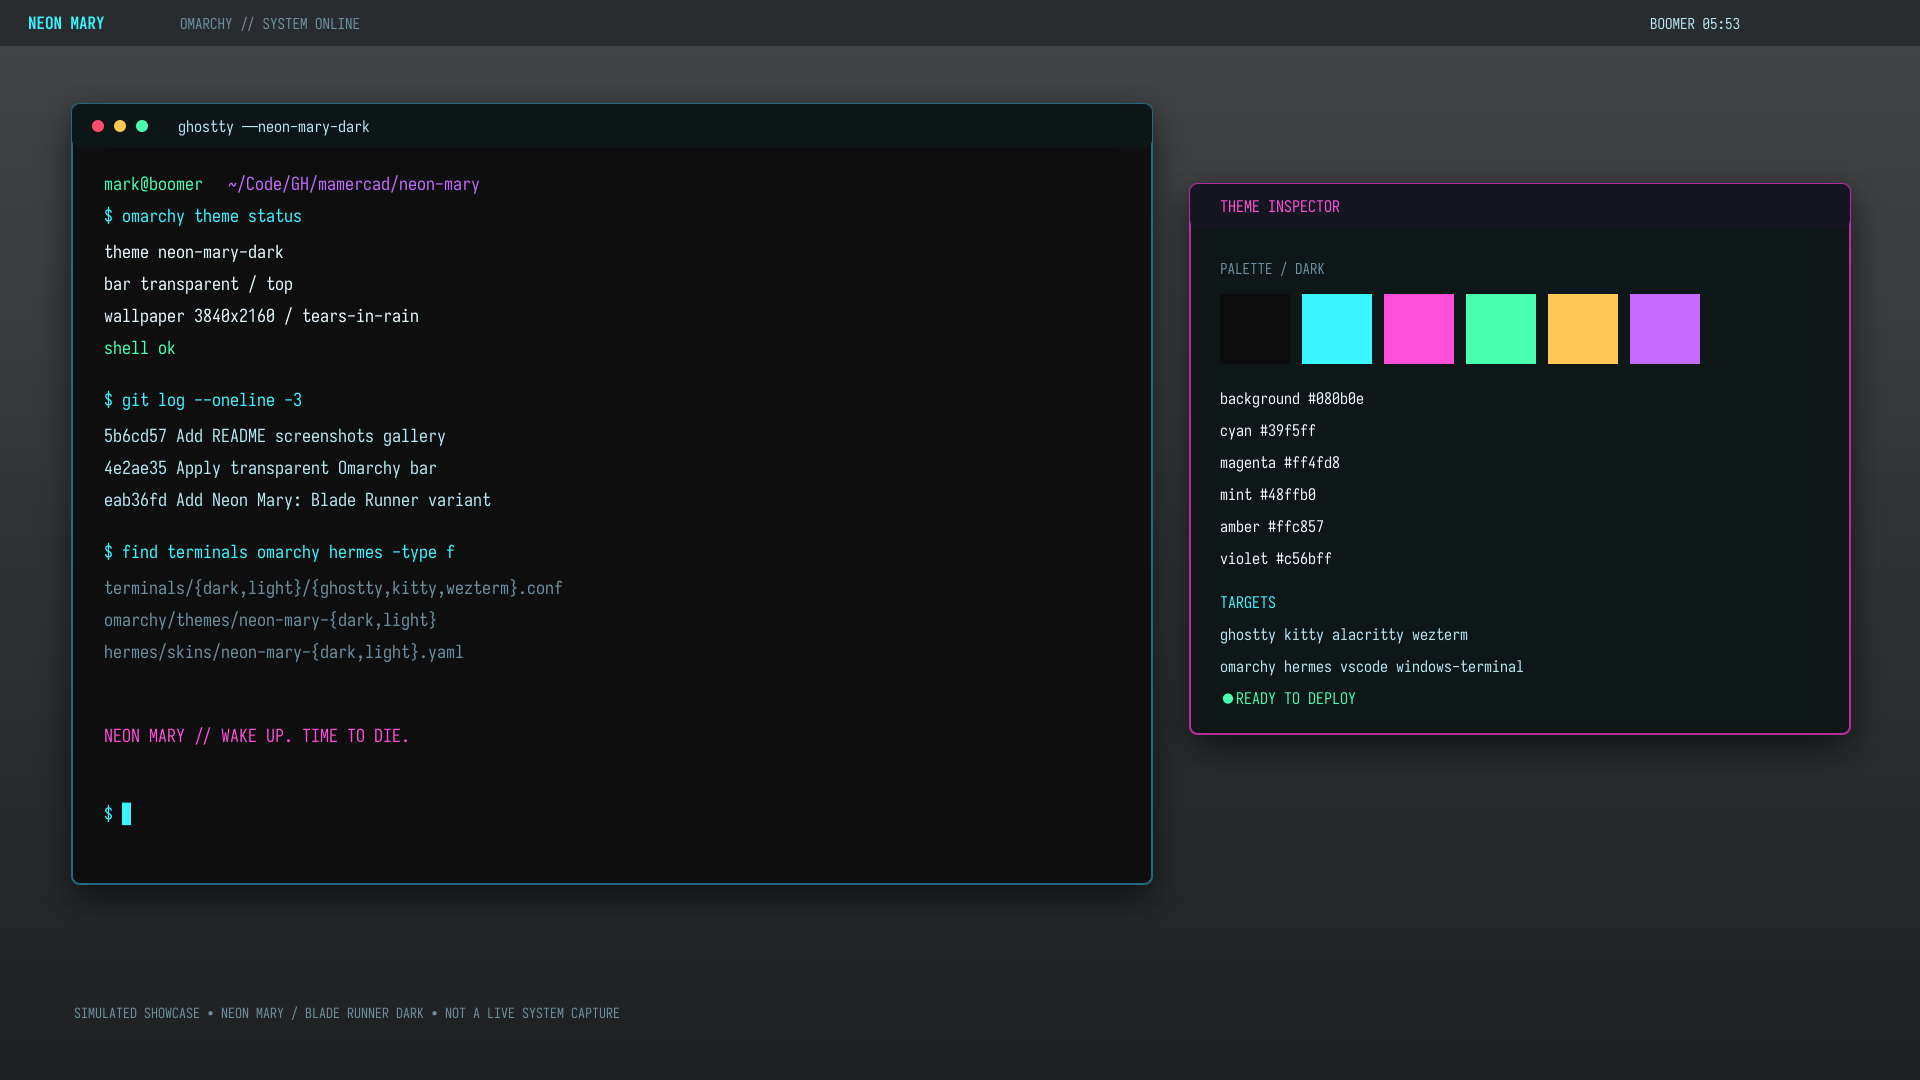
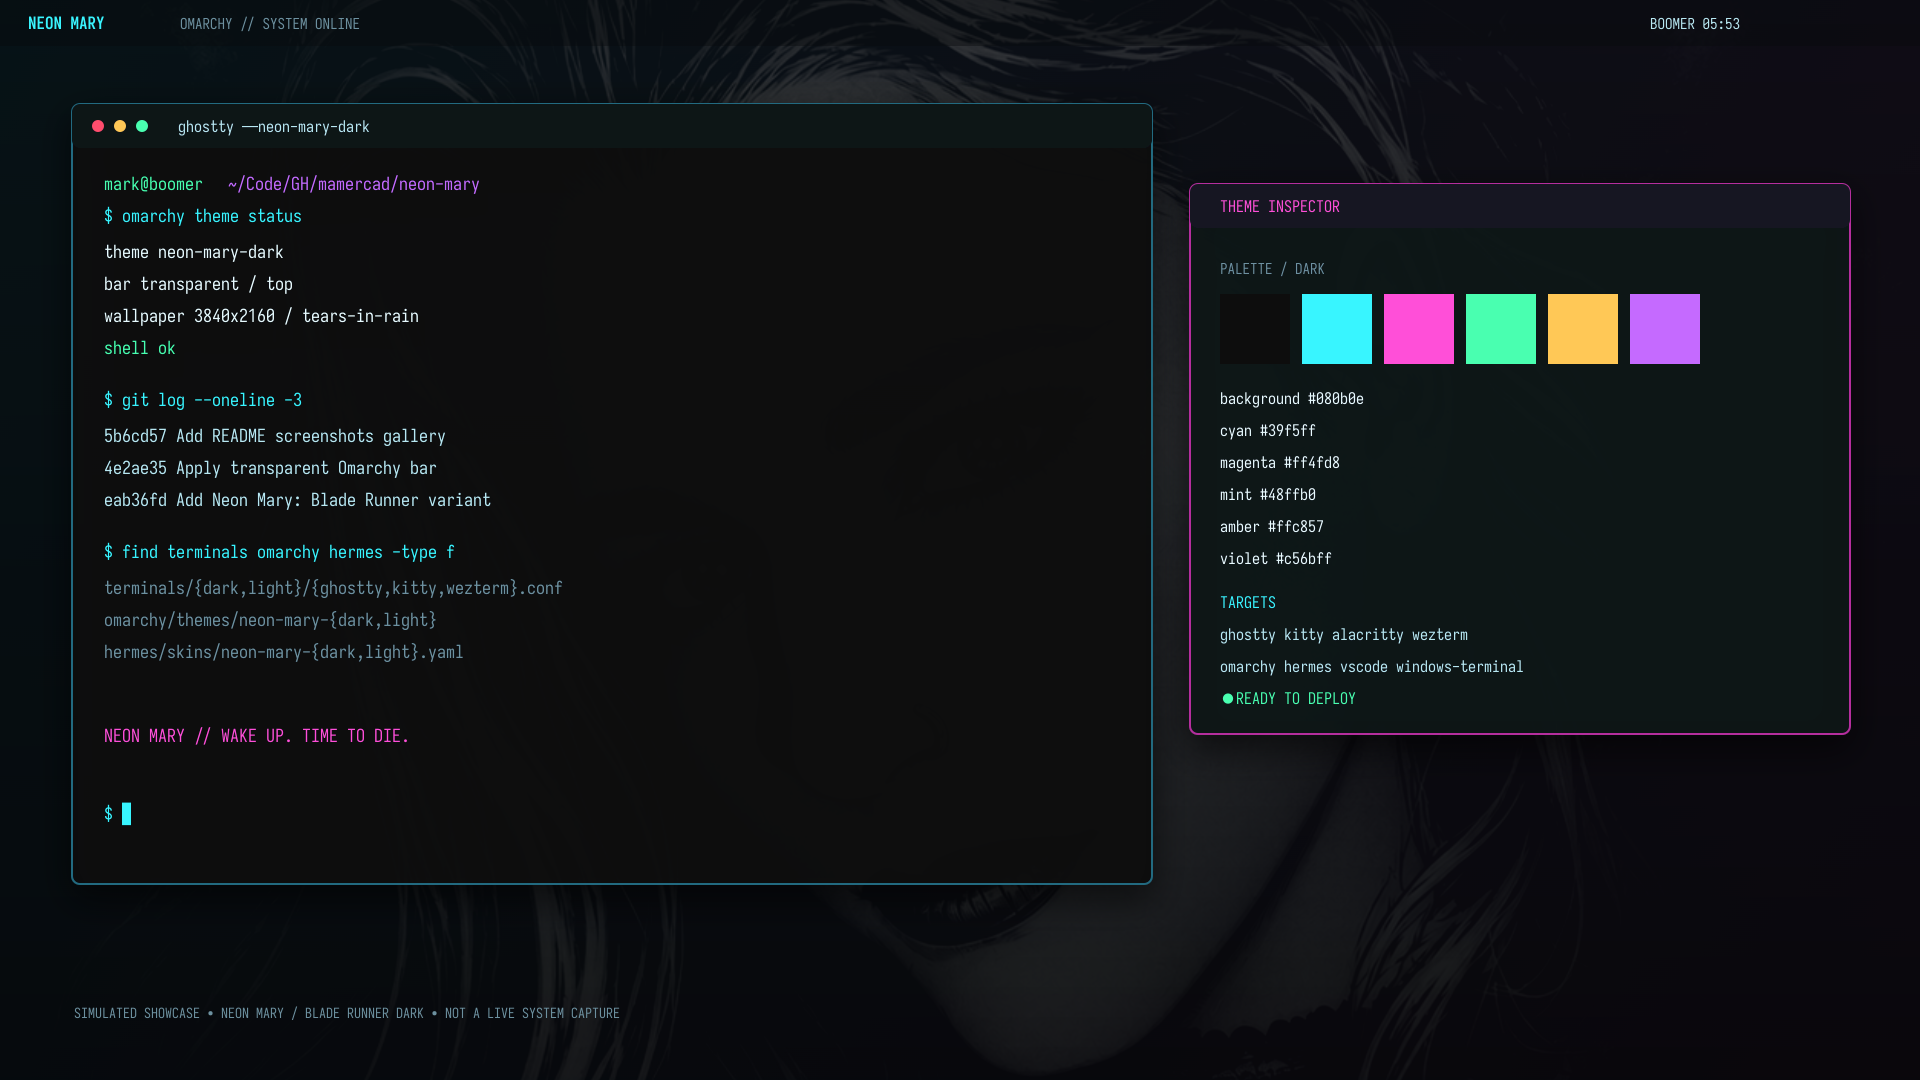
Add Amélie screenshots to README and fix missing wallpapers in examples
The Amélie variant shipped with no README presence: no variant section, no
wallpaper table, and no example screenshot, while Blade Runner and The Crow
each had all three. Add the missing section and bring every "two variants"
reference up to three, including the install and rebuild blocks.

Also fixes the showcase renders. The example SVGs reference their wallpaper
with a relative external href:

    <image href="../wallpapers/crow/dark/4k.png" .../>

Neither ImageMagick's SVG delegate nor rsvg-convert resolves that path here,
so the committed Blade Runner and Crow PNGs had rendered with a flat dark
void where the artwork should be -- the windows floated on nothing and the
transparent-bar treatment had nothing to be transparent over. The bug was
pre-existing and silent: the renders looked plausibly "dark themed" rather
than obviously broken.

Add render_screenshots.py, which inlines each referenced wallpaper as a
base64 data URI before rasterising, so no path resolution is needed. The
.svg sources keep their readable relative hrefs; only the in-memory copy
handed to the renderer is rewritten.

All three examples now show the Mary artwork behind the panels (~120KB ->
~450KB each, confirming the image is really embedded), with terminal text
and palette swatches still fully legible over it.

Changed region(s): [[0.0, 0.0, 1.0, 1.0]]

diff --git a/render_screenshots.py b/render_screenshots.py
@@ -1,0 +1,87 @@
+#!/usr/bin/env python3
+"""Render the showcase SVGs to PNG with their wallpaper actually embedded.
+
+The showcase SVGs reference their wallpaper with a relative external href:
+
+    <image href="../wallpapers/amelie/dark/4k.png" .../>
+
+Neither ImageMagick's internal MSVG/rsvg delegate nor rsvg-convert reliably
+resolves that relative path here, so every committed example rendered with a
+flat dark void where the artwork should be -- the panels float on nothing and
+the "transparent bar" treatment has nothing to be transparent over.
+
+Fix: inline the referenced PNG as a base64 data URI before rasterising, so the
+image travels inside the SVG and no path resolution is required. The .svg
+sources on disk stay human-editable with their relative hrefs; only the
+in-memory copy handed to the renderer is rewritten.
+"""
+import base64
+import mimetypes
+import re
+import subprocess
+import sys
+import tempfile
+from pathlib import Path
+
+ROOT = Path(__file__).resolve().parent
+SHOTS = ROOT / "screenshots"
+
+TARGETS = [
+    "desktop-blade-runner-dark-example",
+    "desktop-crow-dark-example",
+    "desktop-amelie-dark-example",
+]
+
+HREF = re.compile(r'(<image[^>]*?\shref=")([^"]+)(")', re.I)
+
+
+def inline_images(svg_text: str, base: Path) -> tuple[str, int]:
+    """Replace relative <image href> targets with base64 data URIs."""
+    count = 0
+
+    def repl(m):
+        nonlocal count
+        head, href, tail = m.groups()
+        if href.startswith(("data:", "http://", "https://")):
+            return m.group(0)
+        target = (base / href).resolve()
+        if not target.exists():
+            raise SystemExit(f"  !! referenced image missing: {target}")
+        mime = mimetypes.guess_type(target.name)[0] or "image/png"
+        data = base64.b64encode(target.read_bytes()).decode("ascii")
+        count += 1
+        return f"{head}data:{mime};base64,{data}{tail}"
+
+    return HREF.sub(repl, svg_text), count
+
+
+def render(stem: str) -> None:
+    svg = SHOTS / f"{stem}.svg"
+    png = SHOTS / f"{stem}.png"
+    if not svg.exists():
+        print(f"skip {stem}: no SVG")
+        return
+    text = svg.read_text(encoding="utf-8")
+    inlined, n = inline_images(text, SHOTS)
+    if n == 0:
+        print(f"  {stem}: no external images to inline")
+    with tempfile.NamedTemporaryFile("w", suffix=".svg", delete=False,
+                                     encoding="utf-8") as tmp:
+        tmp.write(inlined)
+        tmp_path = Path(tmp.name)
+    try:
+        subprocess.run(
+            ["rsvg-convert", "-w", "1920", "-h", "1080",
+             str(tmp_path), "-o", str(png)],
+            check=True, capture_output=True)
+    finally:
+        tmp_path.unlink(missing_ok=True)
+    print(f"  {stem}: embedded {n} image(s) -> {png.name} "
+          f"({png.stat().st_size // 1024} KiB)")
+
+
+if __name__ == "__main__":
+    names = sys.argv[1:] or TARGETS
+    print("rendering showcase screenshots")
+    for stem in names:
+        render(stem)

diff --git a/README.md b/README.md
@@ -1,6 +1,6 @@
 # Neon Mary Theme Family
 
-**Neon Mary** is a family of themes built around the `mary.png` artwork. This repository contains two variants: **Blade Runner** and **The Crow (1994)**. Each variant has dark and light palette modes for terminals, editors, Omarchy, and Hermes Agent.
+**Neon Mary** is a family of themes built around the `mary.png` artwork. This repository contains three variants: **Blade Runner**, **The Crow (1994)**, and **Amélie (2001)**. Each variant has dark and light palette modes for terminals, editors, Omarchy, and Hermes Agent.
 
 The canonical artwork is derived from the Mary source. The original square source is preserved as `wallpapers/original-mary-1254.png`; the dark 3840×2160 composition is the Blade Runner variant's current artwork. Light variants use the same composition with a restrained readable grade rather than invented overlays.
 
@@ -34,6 +34,18 @@ The Crow variant uses gothic charcoal, ash, mauve, weathered blue, olive, and bl
 
 Example 3840×2160 Omarchy desktop presentation for the **Neon Mary: The Crow (1994)** variant in dark mode, showing its gothic charcoal, lavender, plum, sage, amber, and crimson palette with terminal workspace, theme inspector, and transparent bar treatment.
 
+### Amélie (2001) variant
+
+The Amélie variant trades neon for a warm Parisian interior: deep café brown, saturated ochre and butter yellow, poppy red, and the film's signature teal-green as the cool counterweight.
+
+| Dark palette | Light palette |
+| --- | --- |
+| ![Neon Mary Amélie dark wallpaper](wallpapers/amelie/dark/4k.png) | ![Neon Mary Amélie light wallpaper](wallpapers/amelie/light/4k.png) |
+
+![Neon Mary Amélie dark Omarchy example](screenshots/desktop-amelie-dark-example.png)
+
+Example 3840×2160 Omarchy desktop presentation for the **Neon Mary: Amélie (2001)** variant in dark mode, showing its ochre, butter, olive, teal, and poppy palette with terminal workspace, theme inspector, and transparent bar treatment.
+
 ## Variants
 
 ### Blade Runner
@@ -46,10 +58,15 @@ Example 3840×2160 Omarchy desktop presentation for the **Neon Mary: The Crow (1
 - `dark`: gothic charcoal, ash, mauve, weathered blue, olive, and blood red.
 - `light`: pale ash-gray with ink, mauve, olive, and blood-red accents.
 
+### Amélie (2001)
+
+- `dark`: deep café brown with ochre, butter yellow, olive, teal, and poppy red.
+- `light`: warm cream surface with the same ochre/poppy/teal accents darkened for readable contrast.
+
 ## Included targets
 
 - Native Omarchy packages with `colors.toml`, `icons.theme`, and wallpaper variants.
-- Neon Mary: The Crow (1994) Omarchy packages and Hermes skins in dark/light modes.
+- Neon Mary: The Crow (1994) and Amélie (2001) Omarchy packages and Hermes skins in dark/light modes.
 - Ghostty, iTerm2, Terminal.app, Kitty, Alacritty, WezTerm, Windows Terminal, fzf, tmux, Vim/Neovim, and VS Code resources.
 - Hermes Agent skins for CLI/TUI/desktop surfaces.
 - Wallpapers: 3840×2160, 2560×1440, 1920×1080, 2560×1600, 2160×1440, 2048×1536, 2048×2048, and 1440×2560 in both modes.
@@ -67,6 +84,9 @@ omarchy bar transparent true
 # The Crow (1994) variant — applies the dark version and transparent bar
 ./omarchy/apply-crow.sh dark
 
+# Amélie (2001) variant — applies the dark version and transparent bar
+./omarchy/apply-amelie.sh dark
+
 # Hermes Agent (active profile home; do not copy secrets)
 mkdir -p "${HERMES_HOME:-$HOME/.hermes}/skins"
 cp hermes/skins/neon-mary-dark.yaml "${HERMES_HOME:-$HOME/.hermes}/skins/"
@@ -80,9 +100,15 @@ Terminal files are portable exports; install them using each application's norma
 ```sh
 python3 generate.py
 python3 validate.py
+
+# Contrast + YAML audit across every Hermes skin in the repo
+python3 validate_contrast.py
+
+# Re-render the showcase screenshots (embeds each wallpaper as a data URI)
+python3 render_screenshots.py
 ```
 
-The Blade Runner generator uses the canonical current artwork from `~/Wallpapers/blade-runner-neon-mary-4k.png`; `generate_crow.py` derives the Crow (1994) variant from `~/Pictures/mary.png`. No source secrets or machine-local configuration are included.
+The Blade Runner generator uses the canonical current artwork from `~/Wallpapers/blade-runner-neon-mary-4k.png`; `generate_crow.py` derives the Crow (1994) variant and `generate_amelie.py` the Amélie (2001) variant from `~/Pictures/mary.png`. No source secrets or machine-local configuration are included.
 
 ## License
 
